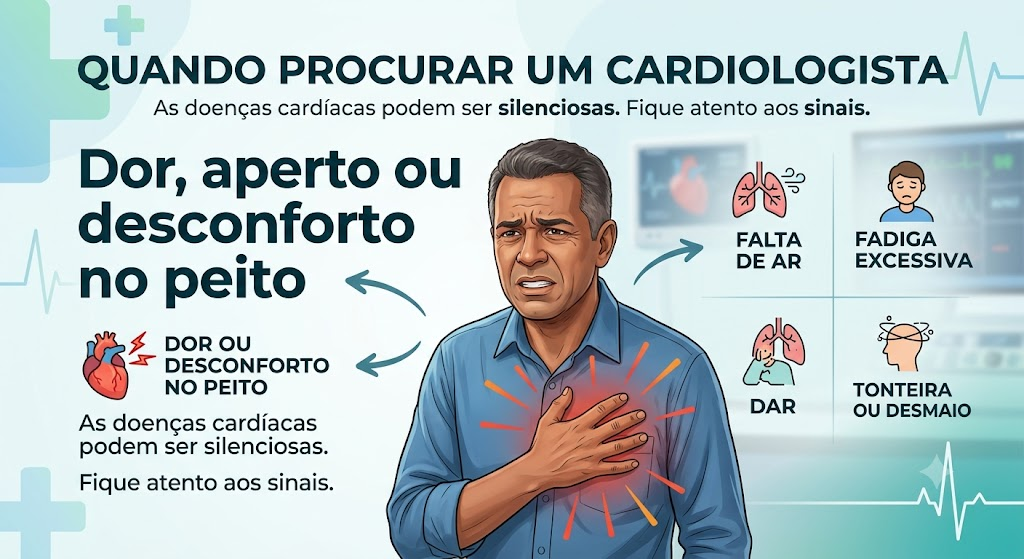
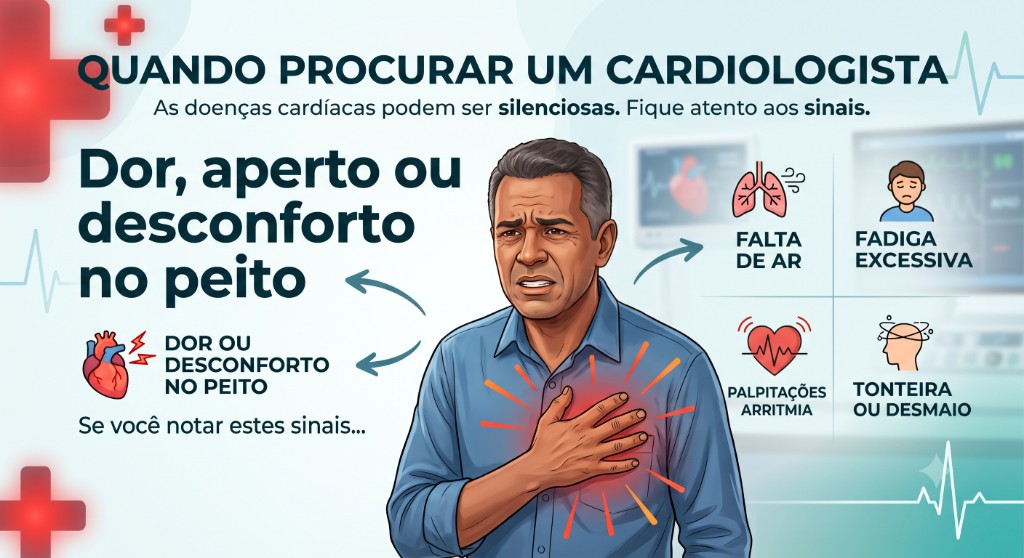
Update specialty page

diff --git a/app/especialidades/[slug]/page.tsx b/app/especialidades/[slug]/page.tsx
@@ -219,7 +219,7 @@ export default async function EspecialidadePage({ params }: PageProps) {
               <figure className="mb-10 overflow-hidden rounded-2xl ring-1 ring-gray-200/80">
                 <img
                   src="/images/quando-procurar-cardiologista.png"
-                  alt="Infográfico: quando procurar um cardiologista — dor ou desconforto no peito, falta de ar, fadiga excessiva e tontura ou desmaio"
+                  alt="Infográfico: quando procurar um cardiologista — dor ou desconforto no peito, falta de ar, fadiga excessiva, palpitações e tontura ou desmaio"
                   className="h-auto w-full object-cover"
                 />
               </figure>
